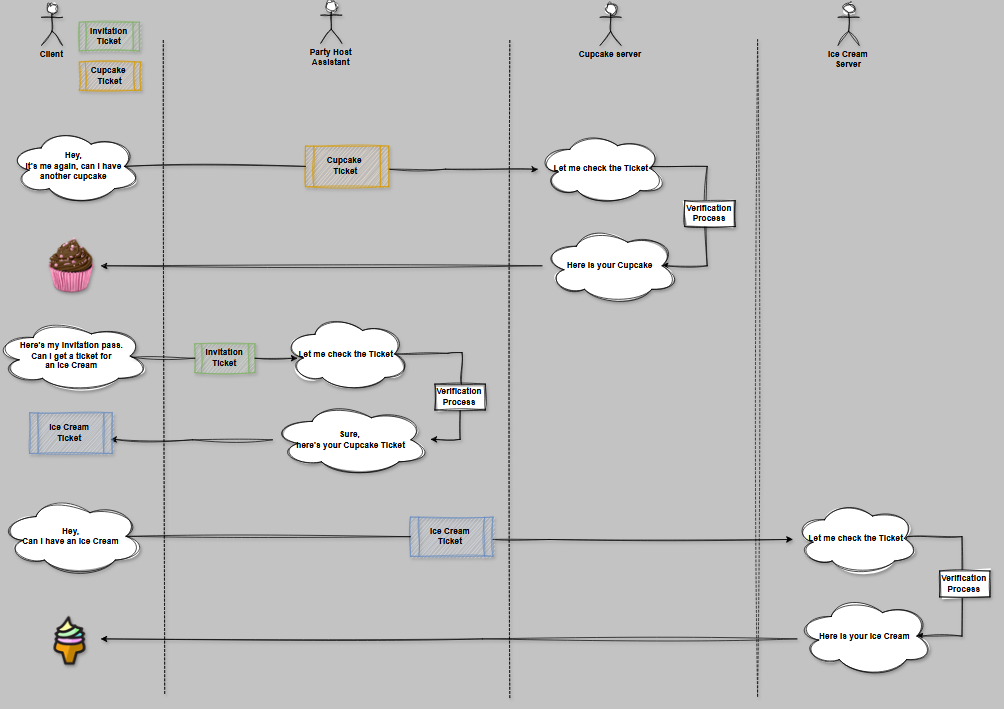
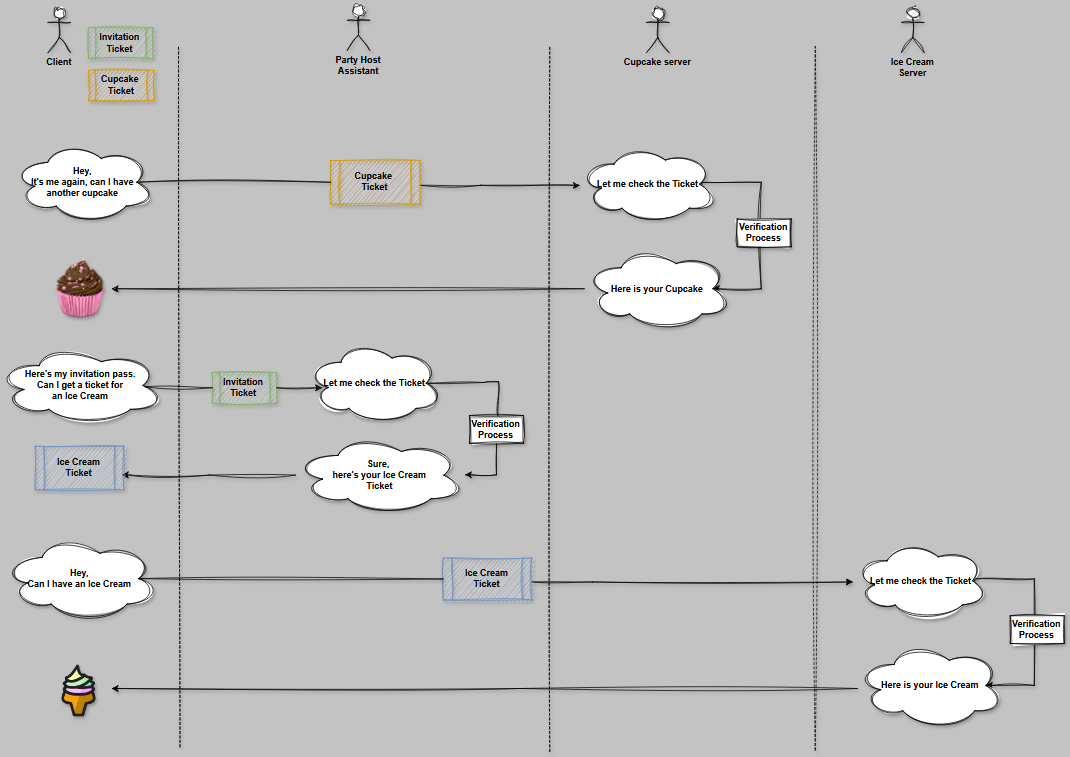
update

diff --git a/assets/_sass/1-tools/_shared.scss b/assets/_sass/1-tools/_shared.scss
@@ -10,6 +10,7 @@ table,
 fieldset, figure,
 pre {
   margin-bottom: 30px;
+  letter-spacing: normal !important;
 }
 
 

diff --git a/_posts/2025-03-8-Kerberos-in-the-land-of-active-directory.md b/_posts/2025-03-8-Kerberos-in-the-land-of-active-directory.md
@@ -72,22 +72,22 @@ Before diving into the technical details, here’s a simple explanation of how K
  Imagine you’re at a birthday party, and there’s a huge pile of delicious **Cupcakes**. But you can’t just take one—you need a special **ticket** 🎟 from the party host to prove you’re allowed to get a Cupcake.
 
  - You go to the party host and say, "Hey, it’s me! Can I have a ticket to prove I am invited"?
- - The host checks if you're invited and gives you a special pass.
- - Now, you take your special pass and go to the host assistant.
- - You say, "Here’s my invitation pass. Can I get a cupcake ticket"?
- - The assistant gives you a cupcake ticket.
- - You show this ticket to the cupcake table (the service you want to access).
- - The cupcake table checks your ticket and says, "Yep! You’re allowed to take a cupcake!"
- - You finally get your cupcake!
+ - The host checks if you're invited and gives you an invitation pass.
+ - Now, you take your invitation pass and go to the host assistant.
+ - You say, "Here’s my invitation Ticket. Can I get a Cupcake ticket"?
+ - The assistant gives you a Cupcake ticket.
+ - You show this ticket to the Cupcake table (the service you want to access).
+ - The cupcake table checks your Cupcake ticket and says, "Yep! You’re allowed to take a Cupcake!"
+ - You finally get your Cupcake!
 
 
 ![Kerberos Protocol - Non Technical]({{site.baseurl}}/assets/images/Kerberos/Kerberos cupcake.png)
 *Kerberos Protocol - Non Technical*
 
 
-Now let's say you enjoyed your Cupcake and want another **Cupcake** along with some **Ice cream** (I know you like sweets).
+Now let's say you enjoyed your Cupcake and want another **Cupcake** along with some **Ice Cream**.
 
-Since you already have a **Cupcake Ticket** from before, you don’t need to request it again. However, you still need to ask for a new **Ice Cream Ticket** to access the ice cream.
+Since you already have a **Cupcake Ticket** from before, you don’t need to request it again. However, you still need to ask for an **Ice Cream Ticket** to get the ice cream.
 
 These are the steps that you need to do in order to have the **Cupcake** and the **Ice Cream**.
 
@@ -104,15 +104,15 @@ Now that we've grasped the basic concept of the protocol, let's dive into the te
 
 ## Technical - Kerberos
 
-## Terms and concepts
+### Terms and concepts
 
-### Realm
+#### Realm
 
 A **realm** is essentially a designated authentication domain that defines the scope within which an authentication server is responsible for validating users, devices, or services. It sets the boundaries for where authentication can occur. However, it’s important to understand that a user and a service don't need to be in the same realm to authenticate. If the two realms trust each other, authentication can be carried out between them, a concept known as **Cross-Authentication**. A user or service is considered part of a realm if it shares a secret, like a password or key, with the authentication server of that realm.
 
 We can say that term **realm** is used to describe the scope of the Kerberos authentication. In Windows, the realm name is derived from the DNS name for the domain (ex: **wild.local**, **google.com**,..)
 
-### Principal
+#### Principal
 
 We can combine the username and the realm to form a user **Principal Name**, commonly written with an at symbol *@* (ex: alice@wild.local).
 A **Principal** also refer to the entries in the authentication server database. A principal is associated with each user, host or service of a given realm.
@@ -125,11 +125,11 @@ The principal is typically represented by the format:
 
 Here's how you can distinguish between a **user** and a **service** principal:
 
-#### **User Principal**  
+##### User Principal
 A **user principal** represents a specific individual user. It is typically represented by a simple name without any specific service or instance. For example:  
 
 ```text
-acile@WILD.LOCAL
+alice@WILD.LOCAL
 ```
 
 This refers to a user named **alice** in the **WILD.LOCAL** realm.
@@ -137,17 +137,18 @@ This refers to a user named **alice** in the **WILD.LOCAL** realm.
 we can also add the the instance to represent a specific role or group.
 
 ```text
-acile/manager@WILD.LOCAL
+alice/manager@WILD.LOCAL
 ```
 
 > The instance is usually not used on user Principals
 
-#### **Service Principal**  
+##### Service Principal
+
 A **service principal** is used for a service or application running on a server. It usually includes the service name (such as HTTP, FTP, etc.) followed by the server’s hostname or instance. For example:  
 
 ```text
 HTTP/DC01@WILD.LOCAL
-MSSQL/DC01:1433@WILD.LOCAL
+MSSQL/DC01.WILD.LOCAL:1433@WILD.LOCAL
 ```
 
 First example represents the **HTTP service** running on the **DC01** server in the **WILD.LOCAL** realm.
@@ -161,22 +162,48 @@ In summary:
 
 This distinction helps Kerberos know if it's authenticating a person or a service.
 
-#### **Operation Principal** 
+##### Operation Principal
 
-In addition to users and services, some principals are essential for the authentication system itself. One key example is **krbtgt/WILD.LOCAL@WILD.LOCAL**, which is responsible for securing the **Ticket Granting Ticket (TGT)** by encrypting it. This special principal helps ensure that authentication requests are properly validated within the Kerberos system. We’ll explore this in more detail later.
+In addition to users and services, some principals are essential for the authentication system itself. One key example is:
+
+```text
+krbtgt/WILD.LOCAL@WILD.LOCAL
+```
+which is responsible for securing the **Ticket Granting Ticket (TGT)** by encrypting it. This special principal helps ensure that authentication requests are properly validated within the Kerberos system. We’ll explore this in more detail later.
 
 
 #### Key Distribution Center (KDC)
 
+In the Kerberos authentication protocol, the **Key Distribution Center** (KDC) is a crucial component responsible for managing secure authentication within a network. It resides entirely on a single physical server (it often coincides with a single process), the **KDC** is logically divided into **two main services** and a **Databse**:
 
-#### Authentication Server (AS)
+- **Authentication Server (AS)** 
+- **Ticket Granting Server (TGS)**
+- **Kerberos Database**
 
 
-#### Ticket Granting Server (TGS)
+##### Authentication Server (AS)
+
+The Authentication Server (**AS**) handles the initial authentication of users or clients. When a client attempts to log in, it sends a request to the AS. The AS verifies the client's credentials against its **database** and, upon successful verification, issues a **Ticket Granting Ticket** (TGT). This TGT is encrypted using the **krbtgt** principal (Host Party) password hash, ensuring its integrity and authenticity. The client can then use this TGT to request access to other services (Cupcake Tiket).
 
 
-#### Kerberos Database
+##### Ticket Granting Server (TGS)
 
+Once the client has obtained a **TGT**, it can request access to specific services by presenting the TGT to the TGS. The TGS (Party host assistant) validates the TGT and issues a Service Ticket (Cupcake Ticket), which the client can then use to authenticate to the desired service.
+
+![Kerberos Protocol - Non Technical]({{site.baseurl}}/assets/images/Kerberos/Kerberos cupcake.png)
+*Kerberos Protocol - Non Technical*
+
+##### Kerberos Database
+
+The **KDC** maintains a secure **database** that stores **secret keys** for all Principals within the network. These keys are essential for encrypting and decrypting the tickets and ensuring that only **authorized principals** can access specific services. The database acts as a trusted repository that both the AS and TGS rely upon to perform their respective functions securely.
+
+![KDC]({{site.baseurl}}/assets/images/Kerberos/KDC.png)
+*KDC*
 
 #### Ticket
+
+Based on the above we can simply say that a **ticket** is a data structure that securely transmits authentication and session information between clients and services. Issued by the **Key Distribution Center (KDC)**, tickets confirm a Principal identity and authorize access to network resources without repeatedly transmitting passwords.
+
+### Kerberos Operation
+
 
